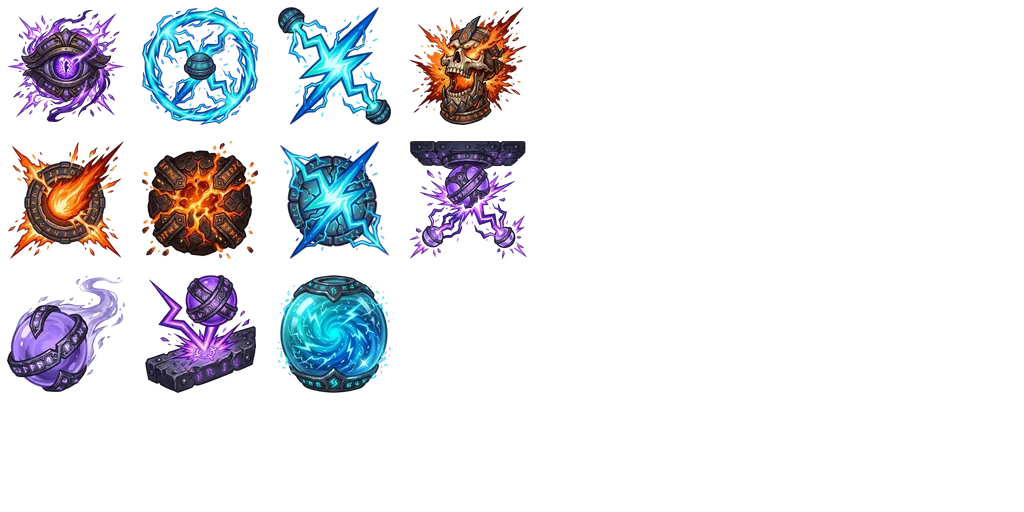
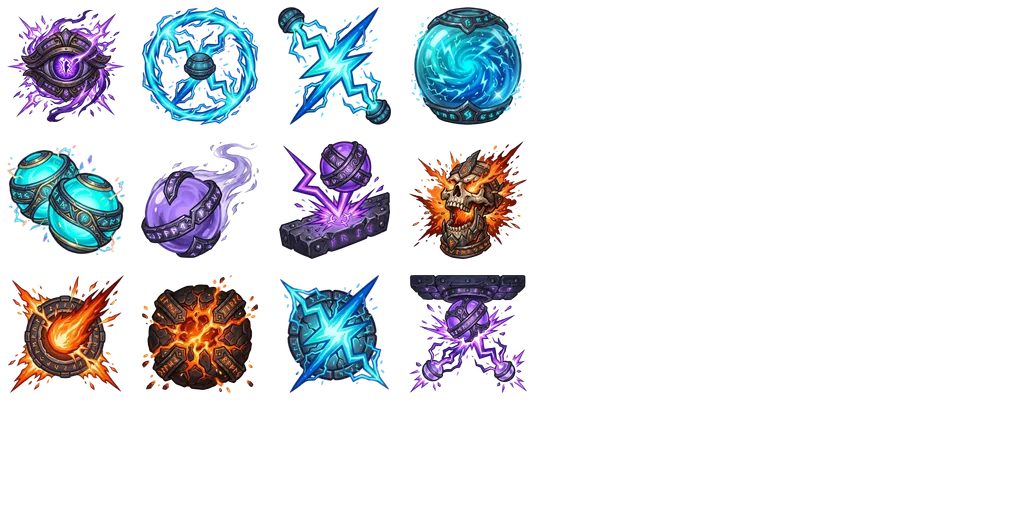
T-026 rodada 17: icon_extra_orb (BRF-028)
Claude-Session: https://claude.ai/code/session_01EN3RX7GrhZzLgyZNfCYpmL

Changed region(s): [[0.0, 0.0, 0.5312, 0.7812]]

diff --git a/art-source/preview.html b/art-source/preview.html
@@ -11,7 +11,7 @@ body.hit .hb::after{content:"";position:absolute;inset:4%;border:1px dashed #00e
 </style></head><body>
 <h1>RuneSling — assets</h1>
 <label><input type="checkbox" onchange="document.body.classList.toggle('hit',this.checked)"> mostrar círculo 92% (hitbox) e centro</label>
-<p>Faltando (8): icon_ignite, icon_extra_orb, icon_power_surge, icon_bastion_heal, icon_gold_greed, floor_crypt, wall_trim_crypt, app_icon</p>
+<p>Faltando (7): icon_ignite, icon_power_surge, icon_bastion_heal, icon_gold_greed, floor_crypt, wall_trim_crypt, app_icon</p>
 <main>
 <figure data-key="boss_obsidian"><div class="spr hb" style="width:384px;height:384px;background:url('../public/assets/atlases/enemies.webp?v=f1924fb8') -2px -2px"></div><figcaption>boss_obsidian <small>enemies 384×384</small></figcaption></figure>
 <figure data-key="enemy_bomb"><div class="spr hb" style="width:256px;height:256px;background:url('../public/assets/atlases/enemies.webp?v=f1924fb8') -392px -2px"></div><figcaption>enemy_bomb <small>enemies 256×256</small></figcaption></figure>
@@ -25,17 +25,18 @@ body.hit .hb::after{content:"";position:absolute;inset:4%;border:1px dashed #00e
 <figure data-key="obstacle_bumper_rune"><div class="spr hb" style="width:192px;height:192px;background:url('../public/assets/atlases/enemies.webp?v=f1924fb8') -264px -788px"></div><figcaption>obstacle_bumper_rune <small>enemies 192×192</small></figcaption></figure>
 <figure data-key="obstacle_pillar_obsidian"><div class="spr hb" style="width:192px;height:192px;background:url('../public/assets/atlases/enemies.webp?v=f1924fb8') -916px -2px"></div><figcaption>obstacle_pillar_obsidian <small>enemies 192×192</small></figcaption></figure>
 <figure data-key="obstacle_ring_multiplier"><div class="spr hb" style="width:192px;height:192px;background:url('../public/assets/atlases/enemies.webp?v=f1924fb8') -916px -200px"></div><figcaption>obstacle_ring_multiplier <small>enemies 192×192</small></figcaption></figure>
-<figure data-key="icon_arcane_sight"><div class="spr hb" style="width:128px;height:128px;background:url('../public/assets/atlases/icons.webp?v=1ea2998f') -2px -2px"></div><figcaption>icon_arcane_sight <small>icons 128×128</small></figcaption></figure>
-<figure data-key="icon_bumper_shock"><div class="spr hb" style="width:128px;height:128px;background:url('../public/assets/atlases/icons.webp?v=1ea2998f') -136px -2px"></div><figcaption>icon_bumper_shock <small>icons 128×128</small></figcaption></figure>
-<figure data-key="icon_chain_lightning"><div class="spr hb" style="width:128px;height:128px;background:url('../public/assets/atlases/icons.webp?v=1ea2998f') -270px -2px"></div><figcaption>icon_chain_lightning <small>icons 128×128</small></figcaption></figure>
-<figure data-key="icon_fire_splash"><div class="spr hb" style="width:128px;height:128px;background:url('../public/assets/atlases/icons.webp?v=1ea2998f') -2px -136px"></div><figcaption>icon_fire_splash <small>icons 128×128</small></figcaption></figure>
-<figure data-key="icon_ghost_ball"><div class="spr hb" style="width:128px;height:128px;background:url('../public/assets/atlases/icons.webp?v=1ea2998f') -2px -270px"></div><figcaption>icon_ghost_ball <small>icons 128×128</small></figcaption></figure>
-<figure data-key="icon_molten_core"><div class="spr hb" style="width:128px;height:128px;background:url('../public/assets/atlases/icons.webp?v=1ea2998f') -136px -136px"></div><figcaption>icon_molten_core <small>icons 128×128</small></figcaption></figure>
-<figure data-key="icon_ricochet_crit"><div class="spr hb" style="width:128px;height:128px;background:url('../public/assets/atlases/icons.webp?v=1ea2998f') -136px -270px"></div><figcaption>icon_ricochet_crit <small>icons 128×128</small></figcaption></figure>
-<figure data-key="icon_static_crit"><div class="spr hb" style="width:128px;height:128px;background:url('../public/assets/atlases/icons.webp?v=1ea2998f') -270px -136px"></div><figcaption>icon_static_crit <small>icons 128×128</small></figcaption></figure>
-<figure data-key="icon_storm_orb"><div class="spr hb" style="width:128px;height:128px;background:url('../public/assets/atlases/icons.webp?v=1ea2998f') -270px -270px"></div><figcaption>icon_storm_orb <small>icons 128×128</small></figcaption></figure>
-<figure data-key="icon_supernova"><div class="spr hb" style="width:128px;height:128px;background:url('../public/assets/atlases/icons.webp?v=1ea2998f') -404px -2px"></div><figcaption>icon_supernova <small>icons 128×128</small></figcaption></figure>
-<figure data-key="icon_wall_clone"><div class="spr hb" style="width:128px;height:128px;background:url('../public/assets/atlases/icons.webp?v=1ea2998f') -404px -136px"></div><figcaption>icon_wall_clone <small>icons 128×128</small></figcaption></figure>
+<figure data-key="icon_arcane_sight"><div class="spr hb" style="width:128px;height:128px;background:url('../public/assets/atlases/icons.webp?v=f28f5cf6') -2px -2px"></div><figcaption>icon_arcane_sight <small>icons 128×128</small></figcaption></figure>
+<figure data-key="icon_bumper_shock"><div class="spr hb" style="width:128px;height:128px;background:url('../public/assets/atlases/icons.webp?v=f28f5cf6') -136px -2px"></div><figcaption>icon_bumper_shock <small>icons 128×128</small></figcaption></figure>
+<figure data-key="icon_chain_lightning"><div class="spr hb" style="width:128px;height:128px;background:url('../public/assets/atlases/icons.webp?v=f28f5cf6') -270px -2px"></div><figcaption>icon_chain_lightning <small>icons 128×128</small></figcaption></figure>
+<figure data-key="icon_extra_orb"><div class="spr hb" style="width:128px;height:128px;background:url('../public/assets/atlases/icons.webp?v=f28f5cf6') -2px -136px"></div><figcaption>icon_extra_orb <small>icons 128×128</small></figcaption></figure>
+<figure data-key="icon_fire_splash"><div class="spr hb" style="width:128px;height:128px;background:url('../public/assets/atlases/icons.webp?v=f28f5cf6') -2px -270px"></div><figcaption>icon_fire_splash <small>icons 128×128</small></figcaption></figure>
+<figure data-key="icon_ghost_ball"><div class="spr hb" style="width:128px;height:128px;background:url('../public/assets/atlases/icons.webp?v=f28f5cf6') -136px -136px"></div><figcaption>icon_ghost_ball <small>icons 128×128</small></figcaption></figure>
+<figure data-key="icon_molten_core"><div class="spr hb" style="width:128px;height:128px;background:url('../public/assets/atlases/icons.webp?v=f28f5cf6') -136px -270px"></div><figcaption>icon_molten_core <small>icons 128×128</small></figcaption></figure>
+<figure data-key="icon_ricochet_crit"><div class="spr hb" style="width:128px;height:128px;background:url('../public/assets/atlases/icons.webp?v=f28f5cf6') -270px -136px"></div><figcaption>icon_ricochet_crit <small>icons 128×128</small></figcaption></figure>
+<figure data-key="icon_static_crit"><div class="spr hb" style="width:128px;height:128px;background:url('../public/assets/atlases/icons.webp?v=f28f5cf6') -270px -270px"></div><figcaption>icon_static_crit <small>icons 128×128</small></figcaption></figure>
+<figure data-key="icon_storm_orb"><div class="spr hb" style="width:128px;height:128px;background:url('../public/assets/atlases/icons.webp?v=f28f5cf6') -404px -2px"></div><figcaption>icon_storm_orb <small>icons 128×128</small></figcaption></figure>
+<figure data-key="icon_supernova"><div class="spr hb" style="width:128px;height:128px;background:url('../public/assets/atlases/icons.webp?v=f28f5cf6') -404px -136px"></div><figcaption>icon_supernova <small>icons 128×128</small></figcaption></figure>
+<figure data-key="icon_wall_clone"><div class="spr hb" style="width:128px;height:128px;background:url('../public/assets/atlases/icons.webp?v=f28f5cf6') -404px -270px"></div><figcaption>icon_wall_clone <small>icons 128×128</small></figcaption></figure>
 <figure data-key="icon_chain_lightning"><img src="../public/assets/icons/icon_chain_lightning.webp?v=f87711a0" alt="icon_chain_lightning"><figcaption>icon_chain_lightning <small>icons/icon_chain_lightning.webp</small></figcaption></figure>
 <figure data-key="icon_bumper_shock"><img src="../public/assets/icons/icon_bumper_shock.webp?v=1d95e1a0" alt="icon_bumper_shock"><figcaption>icon_bumper_shock <small>icons/icon_bumper_shock.webp</small></figcaption></figure>
 <figure data-key="icon_static_crit"><img src="../public/assets/icons/icon_static_crit.webp?v=c7352891" alt="icon_static_crit"><figcaption>icon_static_crit <small>icons/icon_static_crit.webp</small></figcaption></figure>
@@ -47,8 +48,9 @@ body.hit .hb::after{content:"";position:absolute;inset:4%;border:1px dashed #00e
 <figure data-key="icon_ricochet_crit"><img src="../public/assets/icons/icon_ricochet_crit.webp?v=434021f8" alt="icon_ricochet_crit"><figcaption>icon_ricochet_crit <small>icons/icon_ricochet_crit.webp</small></figcaption></figure>
 <figure data-key="icon_wall_clone"><img src="../public/assets/icons/icon_wall_clone.webp?v=0d85d3b8" alt="icon_wall_clone"><figcaption>icon_wall_clone <small>icons/icon_wall_clone.webp</small></figcaption></figure>
 <figure data-key="icon_arcane_sight"><img src="../public/assets/icons/icon_arcane_sight.webp?v=397ce6cc" alt="icon_arcane_sight"><figcaption>icon_arcane_sight <small>icons/icon_arcane_sight.webp</small></figcaption></figure>
+<figure data-key="icon_extra_orb"><img src="../public/assets/icons/icon_extra_orb.webp?v=09000516" alt="icon_extra_orb"><figcaption>icon_extra_orb <small>icons/icon_extra_orb.webp</small></figcaption></figure>
 </main>
 <h2>Atlases</h2>
 <main><figure><img class="sheet" src="../public/assets/atlases/enemies.webp?v=f1924fb8" alt="atlas enemies"><figcaption>atlas enemies 2048×1024</figcaption></figure>
-<figure><img class="sheet" src="../public/assets/atlases/icons.webp?v=1ea2998f" alt="atlas icons"><figcaption>atlas icons 1024×512</figcaption></figure></main>
+<figure><img class="sheet" src="../public/assets/atlases/icons.webp?v=f28f5cf6" alt="atlas icons"><figcaption>atlas icons 1024×512</figcaption></figure></main>
 </body></html>

diff --git a/docs/arte-prompts.md b/docs/arte-prompts.md
@@ -321,7 +321,7 @@ Generate one square 1:1 image. violet arcane all-seeing eye with a rune iris (#9
 - Arquivo a devolver: `art-source/raw/icons/icon_extra_orb.png`
 - Anexar no Gemini: `art-source/anchors/icon_anchor.png`
 - Fundo: magenta · tamanho final 128 px
-- Situação: pendente
+- Situação: **entregue**
 
 ```text
 Generate one square 1:1 image. two glowing cyan orbs side by side, one slightly in front of the other, neutral arcane gold accents (#FECA57). RPG skill icon, stylized hand-painted dark fantasy 2D game icon, one single central symbol, high contrast, crisp readable silhouette at 34 pixels, dark iron runic details, no frame, no border, no outer glow, no light bleeding outside the symbol, centered, no text, no letters, no numbers. Background: one solid flat pure magenta color (#FF00FF) filling the whole canvas, no gradient, no shadow, no floor, no vignette, no texture. Do not use magenta anywhere on the subject. Use the attached image only as a style reference: match its rendering, brush texture, rim construction, lighting direction, contrast and level of detail exactly, but draw the new subject described above. Do not copy its subject.
